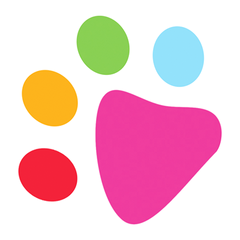
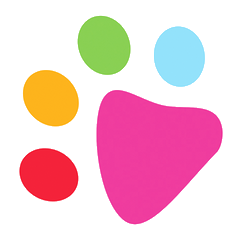
발바닥 로고 투명화, 메인 로고 제작, 마이페이지 조회 기능

diff --git a/src/asmr/MainPage.java b/src/asmr/MainPage.java
@@ -1,4 +1,5 @@
 package asmr;
+import java.awt.Color;
 import java.awt.Component;
 import java.awt.Dimension;
 import java.awt.Font;
